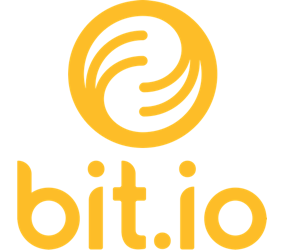
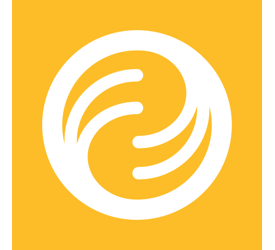
Resize sponsor images for new GitHub layout (#7465)

diff --git a/docs/index.md b/docs/index.md
@@ -71,7 +71,7 @@ continued development by **[signing up for a paid plan][funding]**.
     <li><a href="https://software.esg-usa.com" style="background-image: url(https://fund-rest-framework.s3.amazonaws.com/esg-new-logo.png)">ESG</a></li>
     <li><a href="https://rollbar.com" style="background-image: url(https://fund-rest-framework.s3.amazonaws.com/rollbar2.png)">Rollbar</a></li>
     <li><a href="https://retool.com/?utm_source=djangorest&utm_medium=sponsorship" style="background-image: url(https://fund-rest-framework.s3.amazonaws.com/retool-sidebar.png)">Retool</a></li>
-    <li><a href="https://bit.io/jobs?utm_source=DRF&utm_medium=sponsor&utm_campaign=DRF_sponsorship" style="background-image: url(https://fund-rest-framework.s3.amazonaws.com/bit-io.png)">bit.io</a></li>
+    <li><a href="https://bit.io/jobs?utm_source=DRF&utm_medium=sponsor&utm_campaign=DRF_sponsorship" style="background-image: url(https://fund-rest-framework.s3.amazonaws.com/bitio_logo_gold_background.png)">bit.io</a></li>
 </ul>
 <div style="clear: both; padding-bottom: 20px;"></div>
 
